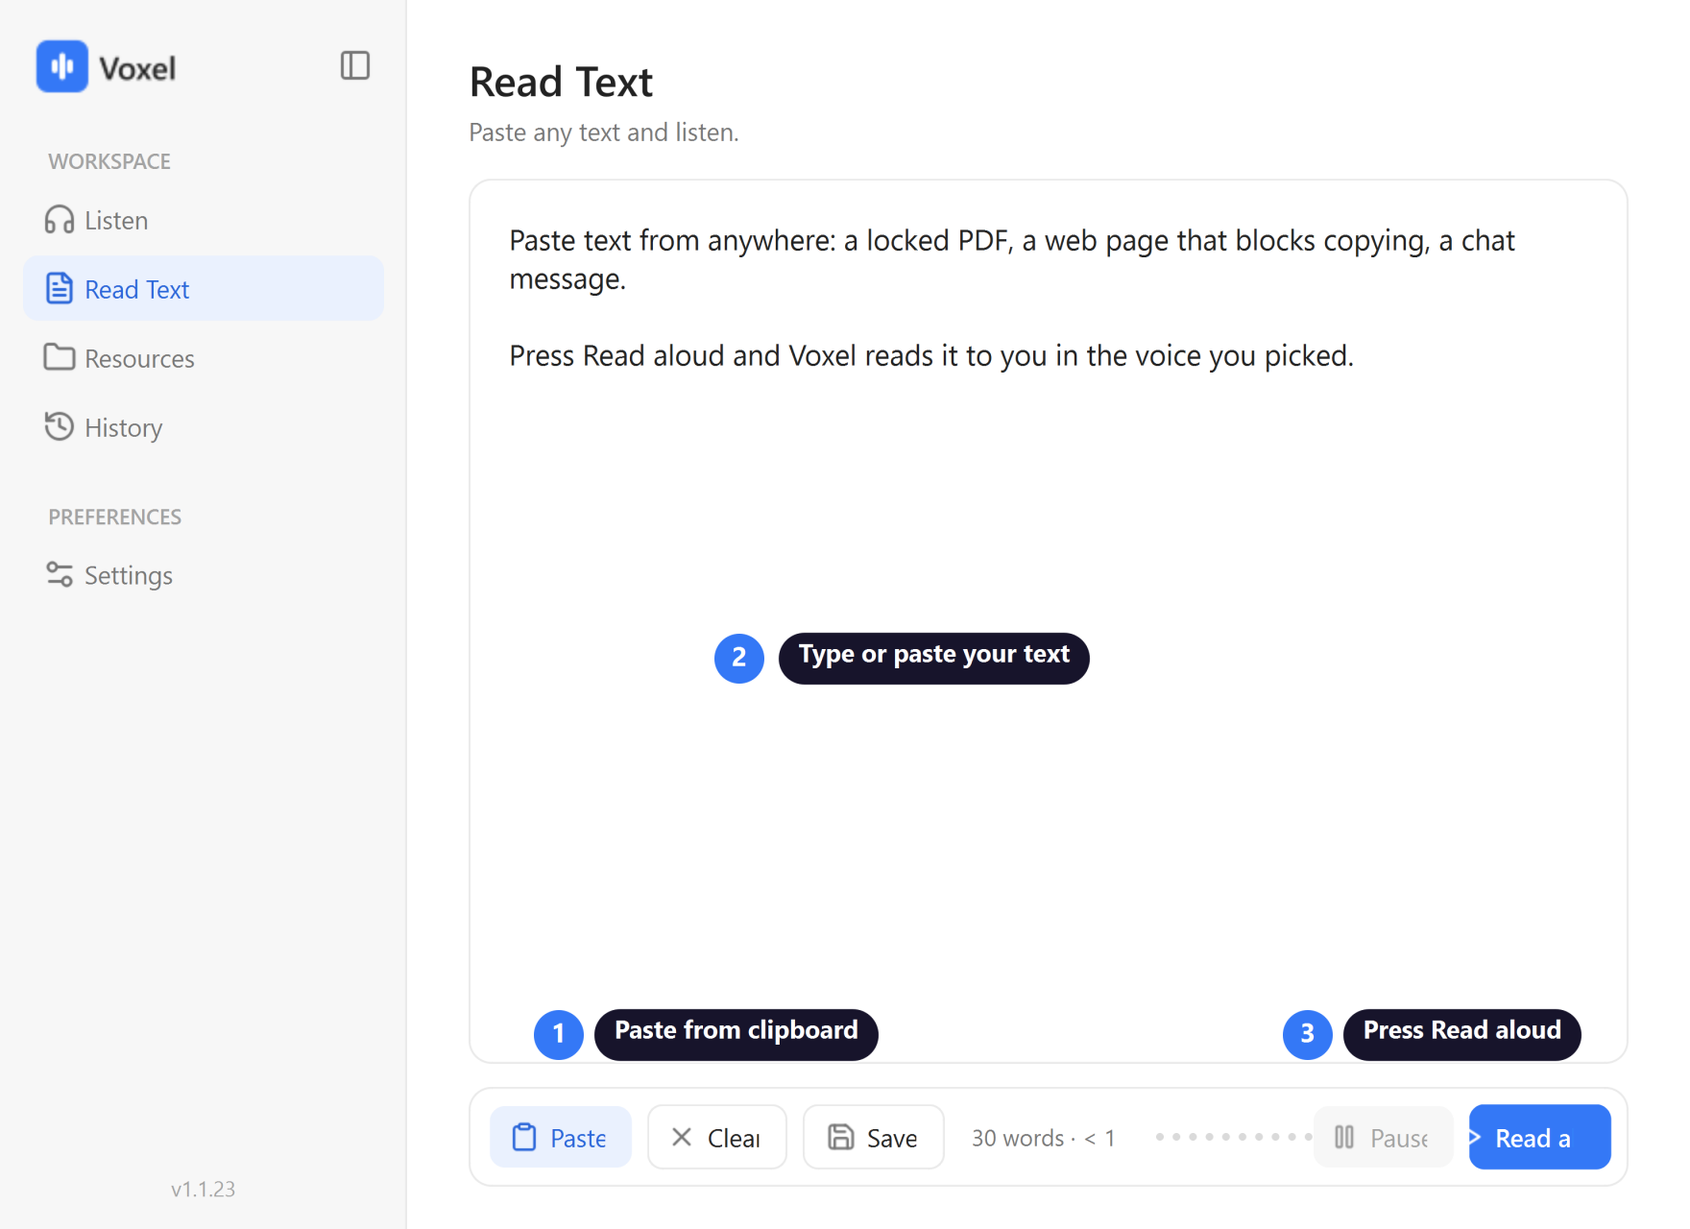
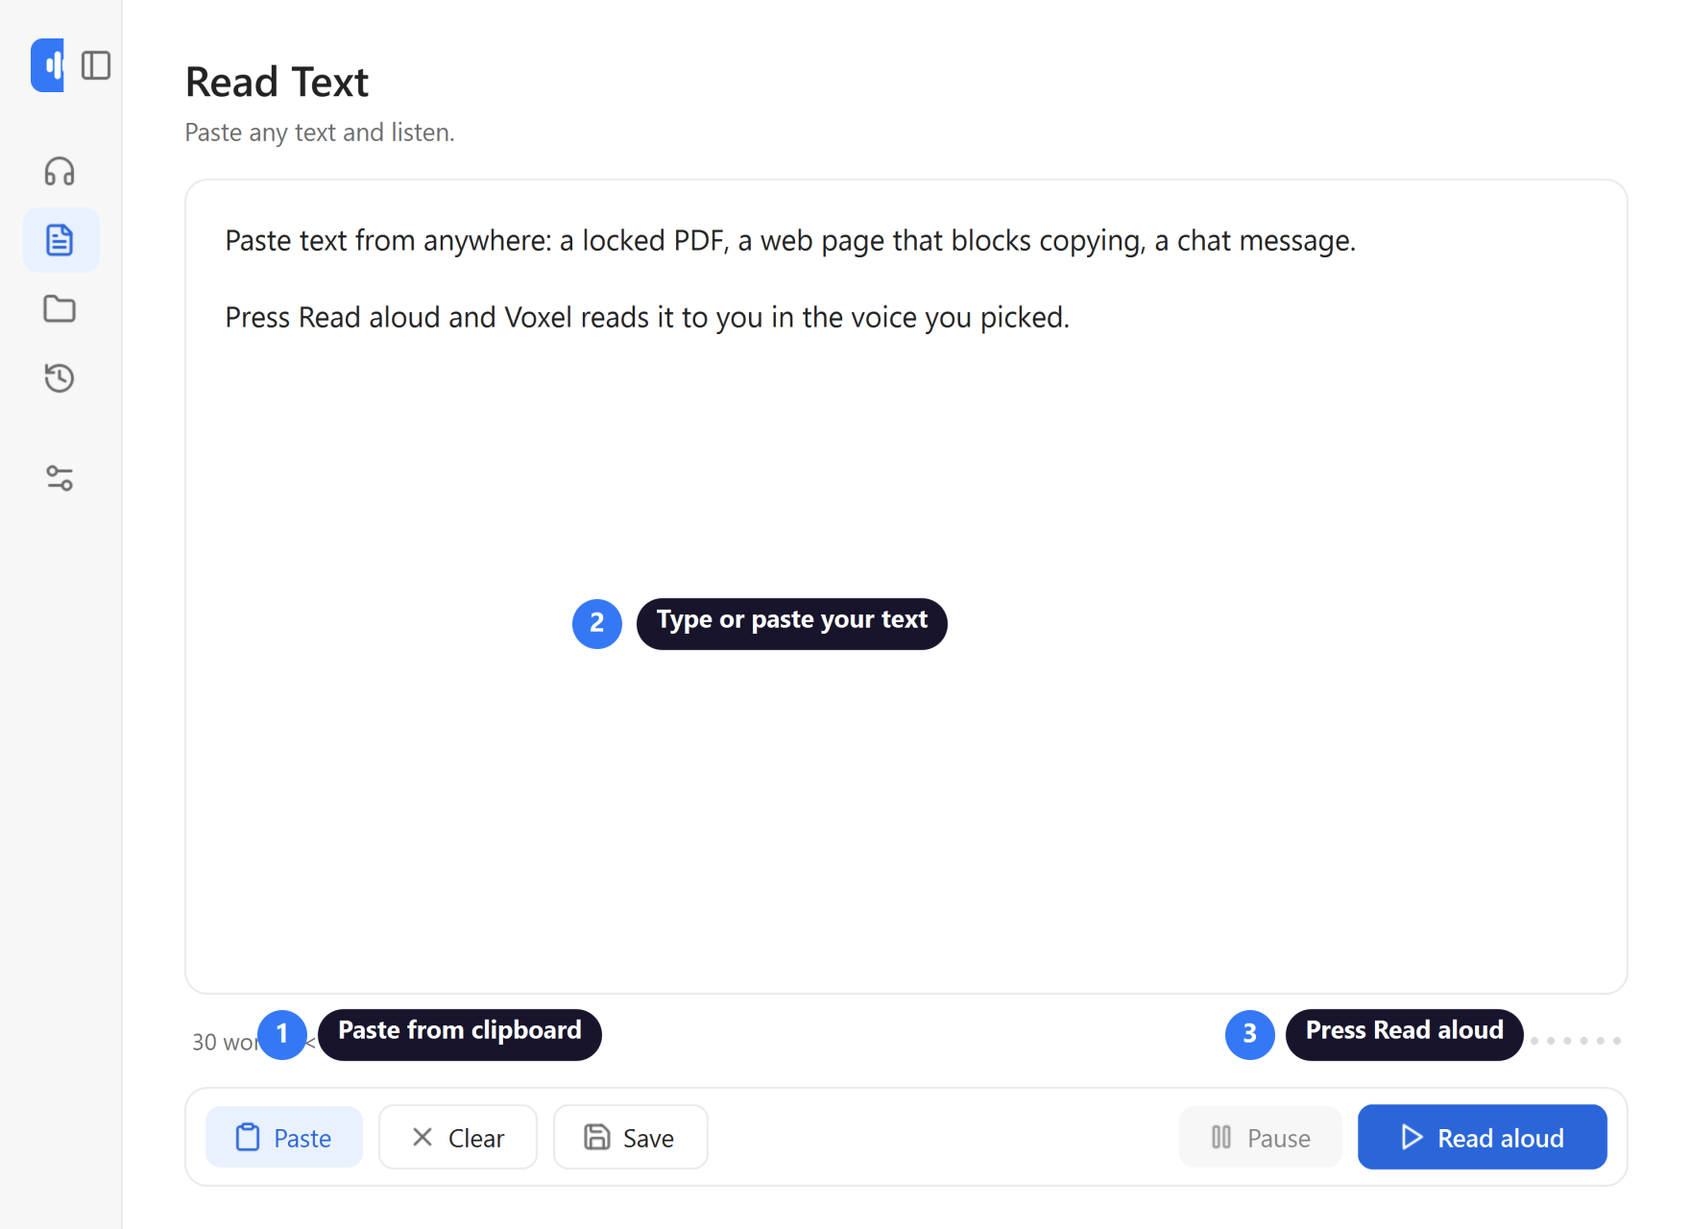
release(v1.1.24): hybrid design - QA fixes, contrast, narrow-window layout
- Contrast: greys and filled buttons meet WCAG AA in light and dark (brand blue kept for marks)
- Narrow windows: sidebar folds automatically, Read Text info moved above buttons,
  dropdowns/sliders can shrink; verified 0 clipping at 100/125/150/200% scaling
- Version v1.1.24, changelog, download links, screenshots

diff --git a/src/ui/settings_dialog.py b/src/ui/settings_dialog.py
@@ -294,7 +294,7 @@ class SliderRow(QWidget):
         lay.addLayout(col, 1)
         self.slider = QSlider(Qt.Orientation.Horizontal)
         self.slider.setRange(lo, hi)
-        self.slider.setMinimumWidth(200)
+        self.slider.setMinimumWidth(120)
         self.slider.setCursor(QCursor(Qt.CursorShape.PointingHandCursor))
         self.slider.setAccessibleName(title)
         lay.addWidget(self.slider, 2)
@@ -396,7 +396,7 @@ class SettingsDialog(QDialog):
         self.setWindowTitle(APP_NAME)
         self.setWindowIcon(create_app_icon(64))
         self.setWindowFlags(self.windowFlags() | Qt.WindowType.WindowStaysOnTopHint)
-        self.setMinimumSize(820, 580)
+        self.setMinimumSize(720, 480)  # fits 1080p screens at 200% scaling
         self.resize(920, 660)
 
         self._init_ui()
@@ -507,6 +507,13 @@ class SettingsDialog(QDialog):
         self.stacked_pages.addWidget(self._create_settings_page())
         col.addWidget(self.stacked_pages, 1)
         root.addWidget(main, 1)
+
+    def resizeEvent(self, event):
+        super().resizeEvent(event)
+        narrow = self.width() < 900
+        want = True if narrow else bool(settings_db.get("ui_sidebar_collapsed", False))
+        if want != self._collapsed:
+            self._set_sidebar_collapsed(want)
 
     def _add_section_label(self, layout, text):
         l = QLabel(text, self.sidebar_widget)
@@ -653,16 +660,19 @@ class SettingsDialog(QDialog):
         self.btn_save_text.setToolTip("Keep this text in Resources")
         self.btn_save_text.clicked.connect(self._save_reader_text)
         bl.addWidget(self.btn_save_text)
+        bl.addStretch()
+        info = QHBoxLayout()
+        info.setContentsMargins(4, 0, 4, 0)
         self.lbl_reader_count = QLabel("")
         self.lbl_reader_count.setObjectName("RowHint")
-        bl.addSpacing(6)
-        bl.addWidget(self.lbl_reader_count)
-        bl.addStretch()
+        info.addWidget(self.lbl_reader_count)
+        info.addStretch()
         self.lbl_reader_status = QLabel("")
         self.lbl_reader_status.setObjectName("RowHint")
-        bl.addWidget(self.lbl_reader_status)
-        self.reader_viz = EqualizerPreviewWidget(90, 11, bar)
-        bl.addWidget(self.reader_viz)
+        info.addWidget(self.lbl_reader_status)
+        self.reader_viz = EqualizerPreviewWidget(90, 11, page)
+        info.addWidget(self.reader_viz)
+        lay.addLayout(info)
         self.btn_reader_pause = self._btn(" Pause")
         self.btn_reader_pause.clicked.connect(self._toggle_pause)
         bl.addWidget(self.btn_reader_pause)
@@ -1053,7 +1063,9 @@ class SettingsDialog(QDialog):
             self.combo_voice = QComboBox()
             for v in VOICES:
                 self.combo_voice.addItem(v["label"], v["id"])
-            self.combo_voice.setFixedWidth(320)
+            self.combo_voice.setMinimumWidth(200)
+            self.combo_voice.setMaximumWidth(320)
+            self.combo_voice.setSizeAdjustPolicy(QComboBox.SizeAdjustPolicy.AdjustToMinimumContentsLengthWithIcon)
             self.combo_voice.currentIndexChanged.connect(self._schedule_apply)
             c.add(setting_row("Voice", self.combo_voice))
             self.row_speed = SliderRow("Reading speed", 50, 200, 100, lambda v: f"{v / 100:.2f}×")
@@ -1067,7 +1079,9 @@ class SettingsDialog(QDialog):
                 self.combo_emotion.addItem(short, m["id"])
                 if detail:
                     self.combo_emotion.setItemData(self.combo_emotion.count() - 1, detail.rstrip(")"), Qt.ItemDataRole.ToolTipRole)
-            self.combo_emotion.setFixedWidth(320)
+            self.combo_emotion.setMinimumWidth(200)
+            self.combo_emotion.setMaximumWidth(320)
+            self.combo_emotion.setSizeAdjustPolicy(QComboBox.SizeAdjustPolicy.AdjustToMinimumContentsLengthWithIcon)
             self.combo_emotion.currentIndexChanged.connect(self._schedule_apply)
             c.add(setting_row("Tone", self.combo_emotion))
             test = QWidget()
@@ -1109,7 +1123,9 @@ class SettingsDialog(QDialog):
             c = Card("Playback")
             self.combo_device = QComboBox()
             self.combo_device.addItem("System default", "default")
-            self.combo_device.setFixedWidth(320)
+            self.combo_device.setMinimumWidth(200)
+            self.combo_device.setMaximumWidth(320)
+            self.combo_device.setSizeAdjustPolicy(QComboBox.SizeAdjustPolicy.AdjustToMinimumContentsLengthWithIcon)
             c.add(setting_row("Output device", self.combo_device))
             self.row_volume = SliderRow("Volume", 0, 100, 80, lambda v: f"{v}%")
             self.slider_volume = self.row_volume.slider
@@ -1501,8 +1517,8 @@ class SettingsDialog(QDialog):
                        border-radius: 8px; padding: 7px 14px; font-size: 13px; font-weight: 500; }}
         QPushButton:focus {{ border-color: {pal['accent']}; }}
         QPushButton:disabled {{ color: {pal['faint']}; }}
-        QPushButton#BtnPrimary {{ background: {pal['accent']}; color: #FFFFFF; border: none; padding: 8px 20px; font-weight: 600; }}
-        QPushButton#BtnPrimary:hover {{ background: {pal['accent_hover']}; }}
+        QPushButton#BtnPrimary {{ background: {pal['btn']}; color: {pal['on_accent']}; border: none; padding: 8px 20px; font-weight: 600; }}
+        QPushButton#BtnPrimary:hover {{ background: {pal['btn_hover']}; }}
         QPushButton#BtnSoft {{ background: {pal['accent_soft']}; color: {pal['accent_text']}; border: none; }}
         QPushButton#BtnSoft:hover {{ background: {pal['border']}; }}
         QPushButton#BtnSoft:disabled {{ background: {pal['surface2']}; color: {pal['faint']}; }}
@@ -1533,8 +1549,8 @@ class SettingsDialog(QDialog):
             btn.setIcon(line_icon(icon, pal["muted"], pal["accent_text"], 18))
         self.btn_collapse.setIcon(line_icon("panel-left", pal["muted"], size=18))
         soft, muted = pal["accent_text"], pal["muted"]
-        self._icon_play = line_icon("play", "#FFFFFF", size=14)
-        self._icon_stop = line_icon("square", "#FFFFFF", size=14)
+        self._icon_play = line_icon("play", pal["on_accent"], size=14)
+        self._icon_stop = line_icon("square", pal["on_accent"], size=14)
         self._icon_play_soft = line_icon("play", soft, size=14)
         self._icon_stop_soft = line_icon("square", soft, size=14)
         self._icon_pause_soft = line_icon("pause", soft, size=14)

diff --git a/src/ui/mini_player.py b/src/ui/mini_player.py
@@ -39,9 +39,10 @@ class GradientGlowPlayButton(QPushButton):
         self.is_hovered = False
         self.accent = QColor(PALETTES["light"]["accent"])
         self.accent_hover = QColor(PALETTES["light"]["accent_hover"])
+        self.icon_color = "#FFFFFF"
 
-    def set_colors(self, accent: str, hover: str):
-        self.accent, self.accent_hover = QColor(accent), QColor(hover)
+    def set_colors(self, accent: str, hover: str, icon: str = "#FFFFFF"):
+        self.accent, self.accent_hover, self.icon_color = QColor(accent), QColor(hover), icon
         self.update()
 
     def set_playing(self, playing: bool):
@@ -68,7 +69,7 @@ class GradientGlowPlayButton(QPushButton):
         p.setBrush(self.accent_hover if (self.is_hovered or self.isDown()) else self.accent)
         p.drawEllipse(QRectF(0, 0, s, s))
         ic = int(s * 0.46)
-        pm = line_icon("pause" if self.is_playing else "play", "#FFFFFF", size=ic).pixmap(ic, ic)
+        pm = line_icon("pause" if self.is_playing else "play", self.icon_color, size=ic).pixmap(ic, ic)
         dx = 0 if self.is_playing else 1  # optical centre for the play triangle
         p.drawPixmap(int((s - ic) / 2 + dx), int((s - ic) / 2), pm)
         p.end()
@@ -189,7 +190,7 @@ class MiniPlayer(QWidget):
         self._theme_mode = theme_mode
         pal = _pal(theme_mode)
         dark = theme_mode == "dark_glass"
-        self.btn_play_pause.set_colors(pal["accent"], pal["accent_hover"])
+        self.btn_play_pause.set_colors(pal["btn"], pal["btn_hover"], pal["on_accent"])
         brand_color = "#E5484D" if self.is_recording else pal["text"]
         # Style each child directly: re-applying a parent style sheet does not reliably repolish children.
         self.lbl_brand.setStyleSheet(

diff --git a/src/ui/design.py b/src/ui/design.py
@@ -14,15 +14,18 @@ FONT_STACK = '"Inter", "Segoe UI Variable Text", "Segoe UI", "SF Pro Text", ".Ap
 PALETTES = {
     "light": {
         "bg": "#FFFFFF", "sidebar": "#F7F7F7", "surface": "#FFFFFF", "surface2": "#F7F7F7",
-        "border": "#EAEAEA", "text": "#222222", "muted": "#777777", "faint": "#A3A3A3",
+        "border": "#EAEAEA", "text": "#222222", "muted": "#6B6B6B", "faint": "#858585",
         "accent": "#3478F6", "accent_hover": "#2A66D9", "accent_soft": "#EAF1FE",
         "accent_text": "#2A66D9", "track_off": "#DCDCDC", "ok": "#1F9D55", "warn": "#C77700",
+        # filled buttons: text/icons on them meet WCAG AA contrast
+        "btn": "#2A66D9", "btn_hover": "#2457BD", "on_accent": "#FFFFFF",
     },
     "dark": {
         "bg": "#171717", "sidebar": "#202020", "surface": "#252525", "surface2": "#202020",
         "border": "#343434", "text": "#F5F5F5", "muted": "#A3A3A3", "faint": "#6E6E6E",
         "accent": "#6B9FFF", "accent_hover": "#8BB4FF", "accent_soft": "#1E2A40",
         "accent_text": "#8BB4FF", "track_off": "#3C3C3C", "ok": "#4ADE80", "warn": "#FBBF24",
+        "btn": "#6B9FFF", "btn_hover": "#8BB4FF", "on_accent": "#171717",
     },
 }
 

diff --git a/src/utils/settings.py b/src/utils/settings.py
@@ -62,7 +62,7 @@ DEFAULT_SETTINGS: Dict[str, Any] = {
     "theme_mode": "light_glass",       # "dark_glass" or "light_glass"
     "auto_close_finished": True,      # Auto-close player after speech completes
     "auto_close_delay": 1.0,          # Fade-out duration in seconds
-    "version": "v1.1.23"
+    "version": "v1.1.24"
 }
 
 

diff --git a/src/utils/version.py b/src/utils/version.py
@@ -8,7 +8,7 @@ Format: v<Major>.<Minor>.<Patch:02d>  (e.g., v1.0.01)
 """
 import re
 
-CURRENT_VERSION = "v1.1.23"
+CURRENT_VERSION = "v1.1.24"
 GITHUB_REPO_URL = "https://github.com/Digimo2020/Voxel-"
 
 

diff --git a/docs/DETAILS.md b/docs/DETAILS.md
@@ -6,7 +6,7 @@
 </p>
 
 <p align="center">
-  <a href="https://github.com/Digimo2020/Voxel-/releases"><img src="https://img.shields.io/badge/Version-v1.1.23-7441F9?style=for-the-badge&logo=apple" alt="Version v1.1.23"></a>
+  <a href="https://github.com/Digimo2020/Voxel-/releases"><img src="https://img.shields.io/badge/Version-v1.1.24-7441F9?style=for-the-badge&logo=apple" alt="Version v1.1.24"></a>
   <a href="LICENSE"><img src="https://img.shields.io/badge/License-MIT-6366F1?style=for-the-badge" alt="License: MIT"></a>
   <a href="https://github.com/Digimo2020/Voxel-"><img src="https://img.shields.io/badge/Platform-macOS%20%7C%20Windows-00F0FF?style=for-the-badge" alt="Platform: macOS & Windows"></a>
   <a href="https://github.com/Digimo2020/Voxel-/releases/latest"><img src="https://img.shields.io/github/downloads/Digimo2020/Voxel-/total?style=for-the-badge&color=7441F9&label=Downloads" alt="GitHub Downloads"></a>
@@ -243,7 +243,7 @@ In early development builds, some users experienced a crash dialog:
 
 | Package Format | Version | Description | Target | Direct Download |
 | :--- | :---: | :--- | :---: | :---: |
-| **Voxel macOS Disk Image (.dmg)** | **`v1.1.23`** *(Latest)* | Drag-and-drop installer with native Quartz selection, full document reader, and permission assistant | macOS (Apple Silicon / Intel) | [**📥 Download Voxel-v1.1.23.dmg**](https://github.com/Digimo2020/Voxel-/releases/download/v1.1.23/Voxel-v1.1.23.dmg) *(Recommended)* |
+| **Voxel macOS Disk Image (.dmg)** | **`v1.1.24`** *(Latest)* | Drag-and-drop installer with native Quartz selection, full document reader, and permission assistant | macOS (Apple Silicon / Intel) | [**📥 Download Voxel-v1.1.24.dmg**](https://github.com/Digimo2020/Voxel-/releases/download/v1.1.24/Voxel-v1.1.24.dmg) *(Recommended)* |
 | **Voxel DMG (Latest Alias)** | `latest` | Automatically resolves to the newest macOS disk image | macOS / Applications | [📥 Download Voxel.dmg](https://github.com/Digimo2020/Voxel-/releases/latest/download/Voxel.dmg) |
 
 #### Run from Source (macOS)
@@ -260,7 +260,7 @@ chmod +x run.sh
 
 | Package Format | Version | Description | Target | Direct Download |
 | :--- | :---: | :--- | :---: | :---: |
-| **Voxel Windows Standalone** | **`v1.1.23`** *(Latest)* | Zero-dependency standalone portable executable with unified Win32 selection, full document reader, and brand icons | Windows 10 / 11 | [**📥 Download Voxel-v1.1.23.exe**](https://github.com/Digimo2020/Voxel-/releases/download/v1.1.23/Voxel-v1.1.23.exe) *(Recommended)* |
+| **Voxel Windows Standalone** | **`v1.1.24`** *(Latest)* | Zero-dependency standalone portable executable with unified Win32 selection, full document reader, and brand icons | Windows 10 / 11 | [**📥 Download Voxel-v1.1.24.exe**](https://github.com/Digimo2020/Voxel-/releases/download/v1.1.24/Voxel-v1.1.24.exe) *(Recommended)* |
 | **Voxel Windows (Latest Alias)** | `latest` | Automatically resolves to newest release | Windows 10 / 11 | [📥 Download Voxel.exe](https://github.com/Digimo2020/Voxel-/releases/latest/download/Voxel.exe) |
 
 > [!IMPORTANT]
@@ -310,7 +310,8 @@ All past and current versions are preserved below according to [`VERSIONING_RULE
 
 | Release Tag | Status | Windows Executable (.exe) | macOS Package (.pkg) | macOS Disk Image (.dmg) | Key Changes & Highlights |
 | :---: | :---: | :---: | :---: | :---: | :--- |
-| **`v1.1.23`** | 🟢 **Latest** | [**📥 Voxel-v1.1.23.exe**](https://github.com/Digimo2020/Voxel-/releases/download/v1.1.23/Voxel-v1.1.23.exe) | — | [**📥 Voxel-v1.1.23.dmg**](https://github.com/Digimo2020/Voxel-/releases/download/v1.1.23/Voxel-v1.1.23.dmg) | • **Redesigned Settings**: card layout, animated toggle switches, segmented controls, shorter text, Light/Dark in sidebar<br>• **New Read Text page**: paste or type any text and listen (for apps that block selection), also in the tray menu<br>• **Fixes**: duplicate volume slider, mislabeled close delay, "Bright & Airy" preset label |
+| **`v1.1.24`** | 🟢 **Latest** | [**📥 Voxel-v1.1.24.exe**](https://github.com/Digimo2020/Voxel-/releases/download/v1.1.24/Voxel-v1.1.24.exe) | — | [**📥 Voxel-v1.1.24.dmg**](https://github.com/Digimo2020/Voxel-/releases/download/v1.1.24/Voxel-v1.1.24.dmg) | • **New design**: waveform logo, calm colours, outline icons, Light/Dark/System theme<br>• **Main window**: Listen, Read Text, Resources, History, Settings (auto-saved)<br>• **Resources**: saved text and bookmarks; compact mini player with More menu |
+| **`v1.1.23`** | 📦 Archived | [📥 Voxel-v1.1.23.exe](https://github.com/Digimo2020/Voxel-/releases/download/v1.1.23/Voxel-v1.1.23.exe) | — | [📥 Voxel-v1.1.23.dmg](https://github.com/Digimo2020/Voxel-/releases/download/v1.1.23/Voxel-v1.1.23.dmg) | • **Redesigned Settings**: card layout, animated toggle switches, segmented controls, shorter text, Light/Dark in sidebar<br>• **New Read Text page**: paste or type any text and listen (for apps that block selection), also in the tray menu<br>• **Fixes**: duplicate volume slider, mislabeled close delay, "Bright & Airy" preset label |
 | **`v1.1.22`** | 📦 Archived | [📥 Voxel-v1.1.22.exe](https://github.com/Digimo2020/Voxel-/releases/download/v1.1.22/Voxel-v1.1.22.exe) | — | [📥 Voxel-v1.1.22.dmg](https://github.com/Digimo2020/Voxel-/releases/download/v1.1.22/Voxel-v1.1.22.dmg) | • **Workable Bubble Sizing**: 3 distinct, functional formats in Settings: **Small Dot (Mini 28px)**, **Medium (Compact 62×32px)**, and **Large (Full 82×40px)**<br>• **Smart Distance Padding**: Configurable clearance slider (default 28px, 15px–75px) in Settings Appearance tab to hover safely clear of text and web popups (Google Docs, Chrome Quote)<br>• **Multi-Line Selection Offset**: Automatically floats above the top line of selected blocks near left margin, eliminating collisions with highlighted paragraphs |
 | **`v1.1.21`** | 📦 Archived | Voxel-v1.1.21.exe *(not published)* | — | [📥 Voxel-v1.1.21.dmg](https://github.com/Digimo2020/Voxel-/releases/download/v1.1.21/Voxel-v1.1.21.dmg) | • **Always-Fixed Test Voice Bar**: Anchored permanently at bottom of Voice & Speech tab, 100% visible regardless of scroll position<br>• **Minimalist Clean UI**: Removed verbose titles/subtitles, concise `▶ Test Voice` button + buttery-smooth 18-bar harmonic visualizer<br>• **Instant Voice Preview**: Test voices, cadence, pitch, and EQ curves instantly without scrolling up or down<br>• **Zero Horizontal Overflow**: Verified 0px across all 5 Settings tabs in Light and Dark themes |
 | **`v1.1.20`** | 📦 Archived | Voxel-v1.1.20.exe *(not published)* | — | [📥 Voxel-v1.1.20.dmg](https://github.com/Digimo2020/Voxel-/releases/download/v1.1.20/Voxel-v1.1.20.dmg) | • **Buttery Voice Visualizer**: 60 FPS multi-harmonic vocal physics simulation with 18 vibrant gradient pill bars (240x34px) and organic exponential decay<br>• **Voice Tuning Controls**: Dedicated Speed slider (`0.5x`–`2.0x`), Voice Pitch slider (`-50Hz`–`+50Hz`), and Volume slider (`0%`–`100%`) in Voice & Speech<br>• **Audio & Playback Page**: Unified "Audio Transitions & Fading" card (fade-in toggle + decay slider), modernized "Auto-Read & Trigger Behavior", and "Hardware Output"<br>• **External App Floating Bubble**: Replaced `ToolTip` with Cocoa-native `NSPanel` (`Qt.WindowType.Tool`) and `NSPasteboard.changeCount()` for instant selection display over Chrome, Safari & Word<br>• **Zero Horizontal Overflow**: Verified 0px horizontal scroll across all 5 Settings tabs |
@@ -339,7 +340,7 @@ chmod +x build_mac.sh
 Outputs:
 - **`dist/Voxel.app`**: Native standalone application bundle.
 - **`dist/Voxel.dmg`**: Drag-and-drop installer disk image.
-- **`dist/Voxel-v1.1.23.dmg`**: Versioned release disk image.
+- **`dist/Voxel-v1.1.24.dmg`**: Versioned release disk image.
 - **`dist/SHA256SUMS.txt`**: Verification checksums.
 
 ### Building on Windows (`.exe`)
@@ -348,7 +349,7 @@ Outputs:
 ```
 Outputs:
 - **`dist/Voxel.exe`**: Zero-dependency standalone executable.
-- **`dist/Voxel-v1.1.23.exe`**: Versioned release executable.
+- **`dist/Voxel-v1.1.24.exe`**: Versioned release executable.
 
 ---
 

diff --git a/README.md b/README.md
@@ -12,9 +12,9 @@
 </p>
 
 <p align="center">
-  <a href="https://github.com/Digimo2020/Voxel-/releases/download/v1.1.23/Voxel-v1.1.23.exe"><img src="https://img.shields.io/badge/%E2%AC%87%20Download%20for%20Windows-7441F9?style=for-the-badge&logo=windows&logoColor=white" alt="Download for Windows"></a>
+  <a href="https://github.com/Digimo2020/Voxel-/releases/download/v1.1.24/Voxel-v1.1.24.exe"><img src="https://img.shields.io/badge/%E2%AC%87%20Download%20for%20Windows-7441F9?style=for-the-badge&logo=windows&logoColor=white" alt="Download for Windows"></a>
   &nbsp;
-  <a href="https://github.com/Digimo2020/Voxel-/releases/download/v1.1.23/Voxel-v1.1.23.dmg"><img src="https://img.shields.io/badge/%E2%AC%87%20Download%20for%20macOS-0F172A?style=for-the-badge&logo=apple&logoColor=white" alt="Download for macOS"></a>
+  <a href="https://github.com/Digimo2020/Voxel-/releases/download/v1.1.24/Voxel-v1.1.24.dmg"><img src="https://img.shields.io/badge/%E2%AC%87%20Download%20for%20macOS-0F172A?style=for-the-badge&logo=apple&logoColor=white" alt="Download for macOS"></a>
 </p>
 
 ---
@@ -53,7 +53,7 @@
 
 ## Install
 
-**Windows**: download `Voxel-v1.1.23.exe`, run it. If SmartScreen warns, choose *More info → Run anyway*.
+**Windows**: download `Voxel-v1.1.24.exe`, run it. If SmartScreen warns, choose *More info → Run anyway*.
 
 > **Windows says "Smart App Control blocked an app"?** The test builds are not code-signed yet. Don't turn Smart App Control off. Run from source with `run.bat` (see below), or follow the [signing and Microsoft Store plan](docs/WINDOWS_STORE_GUIDE.md).
 

diff --git a/CHANGELOG.md b/CHANGELOG.md
@@ -10,6 +10,22 @@ Every 10th patch increments minor, and every 10th minor increments major.
 
 ---
 
+## [v1.1.24] - 2026-11-21
+
+### New design: calm, simple, one window
+- **New identity**: minimal waveform logo (three bars) replaces the microphone on app icon, tray, bubble and mini player. Flat colours, outline icons, no gradients or glow. Light, Dark and System theme.
+- **One main window**: Listen, Read Text, Resources and History, plus Settings. Collapsible sidebar (folds automatically on narrow windows); remembers the last page.
+- **Settings**: General, Voice, Playback, Appearance, Accessibility, About on one page. Advanced options fold away. Changes save automatically; Reset to defaults kept.
+- **Read Text**: Read, Pause/Resume, Stop, status, and Save to Resources.
+- **Resources**: saved text, bookmarks (kept beyond the 50-item history) and recordings. Stored safely in `library.json`.
+- **History**: back in the tray menu, with replay, copy, bookmark and clear.
+- **Mini player**: smaller and flat, progress line, More menu for whole-document reading and recording.
+- **Accessibility**: text contrast meets WCAG AA; checked at 100–200% display scaling; keyboard-operable switches.
+- **Fixes**: Reset to defaults and Reset logo crashed; dark mini player text was unreadable.
+- Existing settings and history are kept.
+
+---
+
 ## [v1.1.23] - 2026-11-21
 
 ### Redesigned Settings & New Read Text Page
